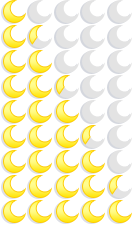
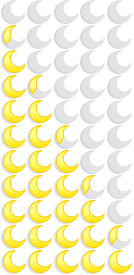
started working on stories, fixed footer

diff --git a/artemis/WebContent/css/main.css b/artemis/WebContent/css/main.css
@@ -12,6 +12,9 @@ body {
 	margin: 0;
 	padding: 0;
 }
+h1 {
+	color: #323847;
+}
 h4 {
 	font-family: 'Open Sans', Arial, sans;
     font-weight: 700;
@@ -104,7 +107,9 @@ input#searchBtn:hover, input#searchBtn:focus {
 .mainDiv {
 	overflow: hidden;
 	width:800px;
-	margin:0px auto;
+	height: auto !important;
+	height: 100%;
+	margin:0 auto;
 	margin-top: 84px;
 }
 
@@ -215,43 +220,51 @@ a:active {
     background-image: url('../img/stars.png');
     background-repeat: no-repeat;
     width: 134px;
-    height: 225px;
+    height: 275px;
 }
-.stars1 {
+.stars0 {
     position:relative;
     top: 0px;
 }
-.stars15 {
+.stars05 {
     position:relative;
     top: -25px;
 }
-.stars2 {
+.stars1 {
     position:relative;
-    top: -50px;
+    top: 50px;
 }
-.stars25 {
+.stars15 {
     position:relative;
     top: -75px;
 }
-.stars3 {
+.stars2 {
     position:relative;
     top: -100px;
 }
-.stars35 {
+.stars25 {
     position:relative;
     top: -125px;
 }
-.stars4 {
+.stars3 {
     position:relative;
     top: -150px;
 }
-.stars45 {
+.stars35 {
     position:relative;
     top: -175px;
 }
-.stars5 {
+.stars4 {
     position:relative;
     top: -200px;
+}
+.stars45 {
+    position:relative;
+    top: -225px;
+}
+.stars5 {
+    position:relative;
+    top: -250px;
 }
 
 
@@ -358,4 +371,12 @@ input#voteBtn {
     background-color: #FFF; /* Fix to make div clickable in IE */
     opacity: 0; /* Fix to make div clickable in IE */
     filter: alpha(opacity=1); /* Fix to make div clickable in IE */
+}
+
+.storyRow {
+    position: relative;
+    width: 800px;
+    height: 160px;
+    background-color: #ffffff;
+    margin-top: 20px;
 }
